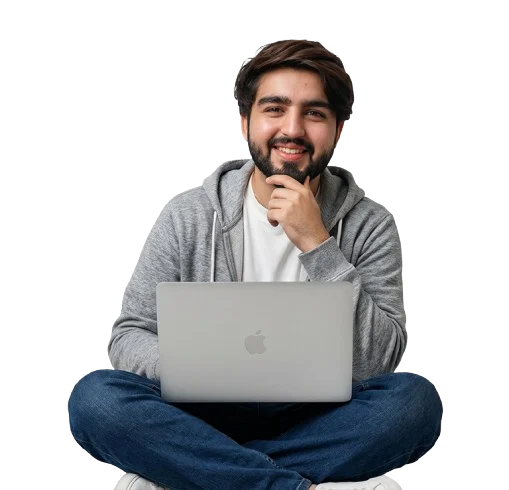
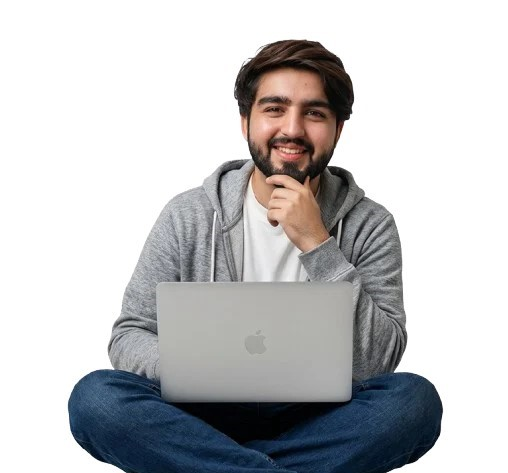
update

Changed region(s): [[0.1181, 0.0592, 0.8858, 1.0], [0.6791, 0.148, 0.7087, 0.1776]]

diff --git a/app/page.tsx b/app/page.tsx
@@ -98,16 +98,23 @@ export default function Home() {
         <Reveal><div className="rounded-[2rem] bg-gradient-to-br from-accent/30 to-primary/20 p-6"><img src="/images/laptop.webp" alt="Nauman working on a laptop" loading="lazy" className="mx-auto w-full max-w-sm drop-shadow-2xl" /></div></Reveal>
         <Reveal delay={0.15}><h2 className={H2}>Owns systems end to end.</h2>
           <p className="mt-6 max-w-2xl text-lg text-muted-foreground">From architecture and backend engineering to AI integration, infrastructure, deployment and production operations. I build reliable, maintainable systems that pair modern application architecture with LLMs, RAG and agentic workflows, backed by a strong grounding in distributed systems and cloud automation.</p>
-          <p className="mt-4 text-muted-foreground">B.S. Computer Science, Lahore Garrison University, 2020–2024.</p></Reveal>
+          <p className="mt-4 text-white italic">B.S. Computer Science, Lahore Garrison University, 2020–2024.</p></Reveal>
       </section>
 
       <section id="experience" className={`${W} py-12 md:py-16`}>
         <Reveal><h2 className={H2}>Where I've worked</h2></Reveal>
         <div className="mt-12 space-y-6 border-l border-border pl-6 md:pl-10">{jobs.map((j, i) => (
           <Reveal key={j.org} delay={i * 0.05}><div className="relative"><span className="absolute -left-[31px] top-7 size-3 rounded-full bg-primary ring-4 ring-background md:-left-[47px]" />
-            <Card className="transition hover:border-accent"><CardContent>
-              <div className="flex flex-wrap items-baseline justify-between gap-2"><h3 className="font-display text-xl font-semibold">{j.role} <span className="text-accent">@ {j.org}</span></h3><span className="text-sm text-primary">{j.when}</span></div>
-              <ul className="mt-4 list-disc space-y-2 pl-5 text-muted-foreground">{j.points.map(p => <li key={p}>{p}</li>)}</ul></CardContent></Card></div></Reveal>))}</div>
+            <Card className="transition hover:border-accent pb-2"><CardContent>
+              <div className="flex flex-wrap items-baseline justify-between gap-2"><h3 className="font-display text-xl font-semibold">{j.role} <span className="text-accent">@ {j.org}</span></h3>
+                <span className="text-sm text-white">{j.when}</span>
+
+              </div>
+              <ul className="mt-4 list-disc space-y-2 pl-5 text-muted-foreground">{j.points.map(p => <li key={p}>{p}</li>)}</ul></CardContent>
+      <span className="absolute bottom-2 right-6 text-sm text-primary italic">{j.loc}</span>
+              </Card></div>
+              
+              </Reveal>))}</div>
       </section>
 
       <section id="projects" className={`${W} py-12 md:py-16`}>

diff --git a/lib/data.ts b/lib/data.ts
@@ -10,9 +10,10 @@ export const me = {
 };
 export const jobs = [
   {
-    when: "Mar 2024 – Present",
+    when: "Sep 2025 – Present",
     role: "Full Stack AI Engineer",
-    org: "ShopeX",
+    org: "Technove",
+    loc: "Melbourne, Australia (Remote)",
     points: [
       "Design and deliver AI-powered and full-stack applications across RAG, multi-agent AI and business apps, supporting 5+ specialized AI workflows.",
       "Built a real-time AI surveillance system linking edge devices to a central platform: 17 detection classes, 30-second device health polling.",
@@ -21,9 +22,10 @@ export const jobs = [
     ],
   },
   {
-    when: "Jan 2023 – Feb 2024",
+    when: "Aug 2024 – Sep 2025",
     role: "Full Stack Developer",
     org: "Bytibits",
+    loc: "Lahore, Pakistan",
     points: [
       "Enhanced Next.js and NestJS applications, improving scalability and performance by 35%.",
       "Built NestJS APIs, business logic, authentication and database integrations alongside existing systems.",
@@ -31,9 +33,10 @@ export const jobs = [
     ],
   },
   {
-    when: "Mar 2022 – Jan 2023",
+    when: "Nov 2022 – Jul 2024",
     role: "MERN Stack Developer",
     org: "Codezbit",
+    loc: "Lahore, Pakistan",
     points: [
       "Designed REST APIs with Node.js and Express.js, improving data transfer performance by 25%.",
       "Implemented secure MongoDB CRUD workflows, reducing data-related issues by 30%.",
